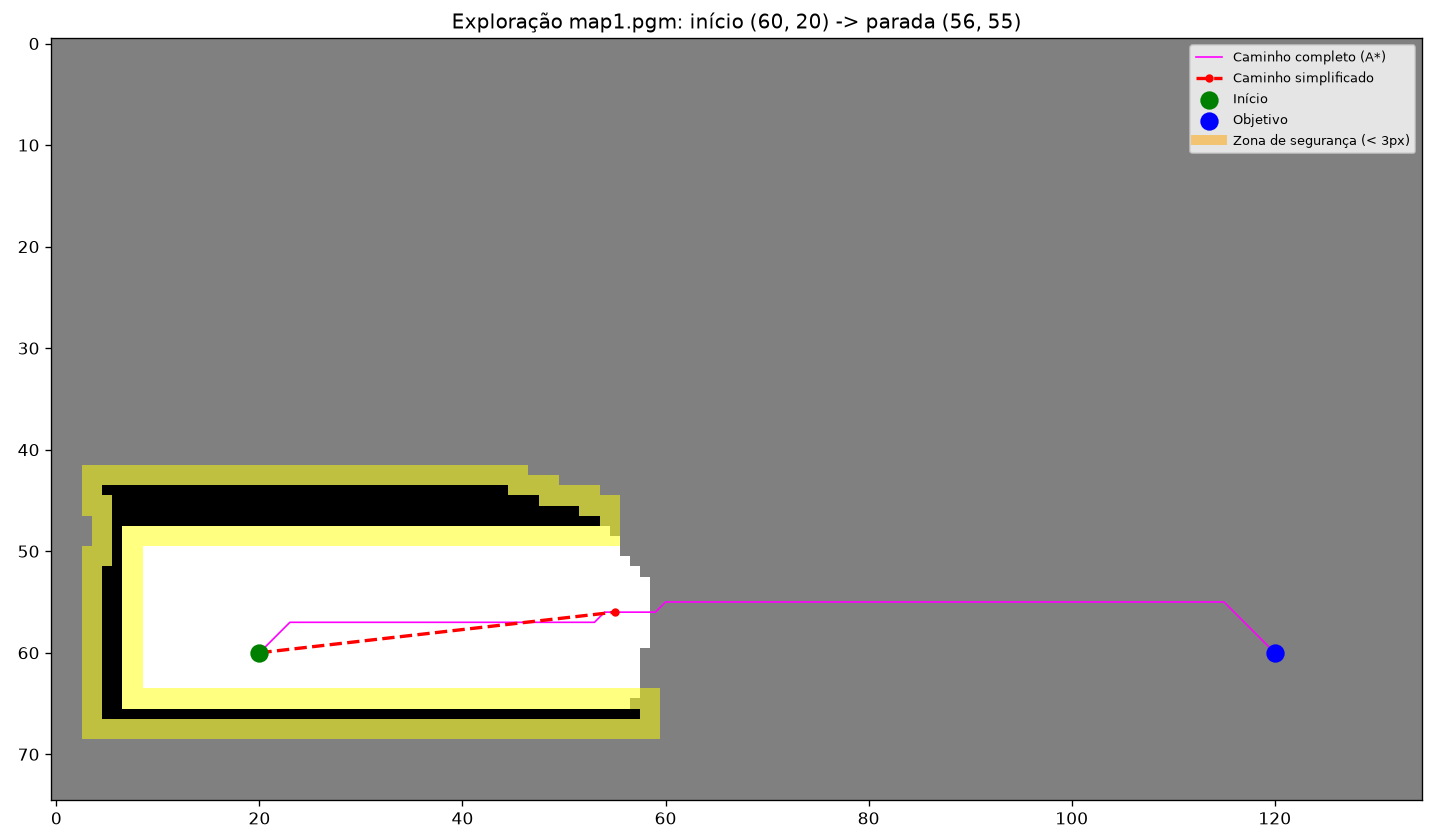
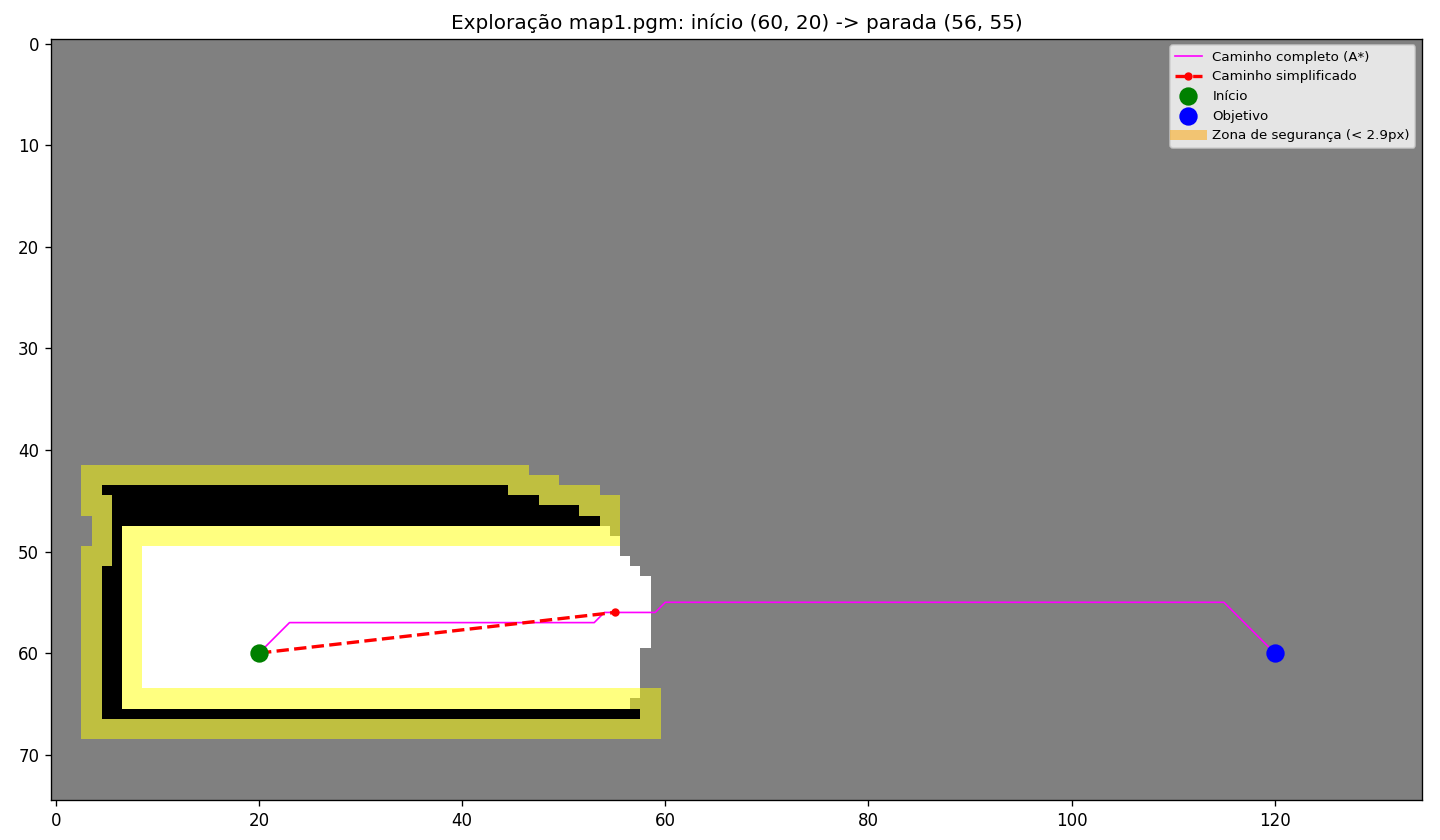
Link do video no Readme

diff --git a/astar.py b/astar.py
@@ -24,7 +24,8 @@ NEIGHBORS = [
 
 class AStarPathfinder:
     def __init__(self, map_array: np.array, start: tuple, goal: tuple, wall_influence=5.0, buffer_factor=2.0,
-                 robot_radius_px=3, unknown_cost=1.0, frontier_margin_px=3):
+                 robot_radius_px=None, unknown_cost=1.0, frontier_margin_px=3,
+                 robot_radius_m=0.07, safety_margin_m=0.05, resolution=0.05):
         """
         Inicializa o A* com mapa, ponto inicial, objetivo e parâmetros de influência.
 
@@ -35,15 +36,22 @@ class AStarPathfinder:
             wall_influence (float): Peso da proximidade das paredes.
             buffer_factor (float): Escala da influência das paredes.
             robot_radius_px (float): Distância mínima (em pixels) entre o centro do robô e qualquer parede.
-                Células mais próximas que isso são intransponíveis. Depende da resolução do mapa
-                (metros/pixel) e do tamanho do robô: raio_px = (raio_robo_m + folga_m) / resolucao_m_por_px.
+                Células mais próximas que isso são intransponíveis. Se None, é calculado a partir de
+                robot_radius_m, safety_margin_m e resolution (recomendado).
             unknown_cost (float): Custo extra por passo em célula desconhecida (faz o robô preferir o conhecido).
             frontier_margin_px (int): Quantos pontos o caminho recua antes da fronteira com o desconhecido.
+            robot_radius_m (float): Raio real do robô em metros (círculo que o envolve, a partir do centro de rotação).
+            safety_margin_m (float): Folga extra em metros, para cobrir o erro de localização.
+            resolution (float): Resolução do mapa em metros/pixel (campo `resolution` do .yaml do mapa).
         """
         self.start = tuple(int(v) for v in start)
         self.goal = tuple(int(v) for v in goal)
         self.wall_influence = wall_influence
         self.buffer_factor = buffer_factor
+        if robot_radius_px is None:
+            # A distância é medida até o centro do pixel de parede, mas a parede começa meio pixel
+            # antes, por isso o + 0.5.
+            robot_radius_px = (robot_radius_m + safety_margin_m) / resolution + 0.5
         self.robot_radius_px = robot_radius_px
         self.unknown_cost = unknown_cost
         self.frontier_margin_px = frontier_margin_px
@@ -446,7 +454,7 @@ def prep_map(map_path: str) -> np.array:
 
 
 def main():
-    map_array = prep_map('map3.pgm')
+    map_array = prep_map('map5.pgm')
     astar = AStarPathfinder(map_array, (60, 20), (60, 120), wall_influence=10.0, buffer_factor=3.0)
     astar.run(gif='astar.gif', frame_every=30)
 

diff --git a/README.md b/README.md
@@ -3,3 +3,4 @@
 Este projeto é um template para uma atividade de robótica, executada em 2024/2
 na disciplina de IA de C. Comp.
 
+link do video: https://vimeo.com/1231638193?fl=tl&fe=ec
